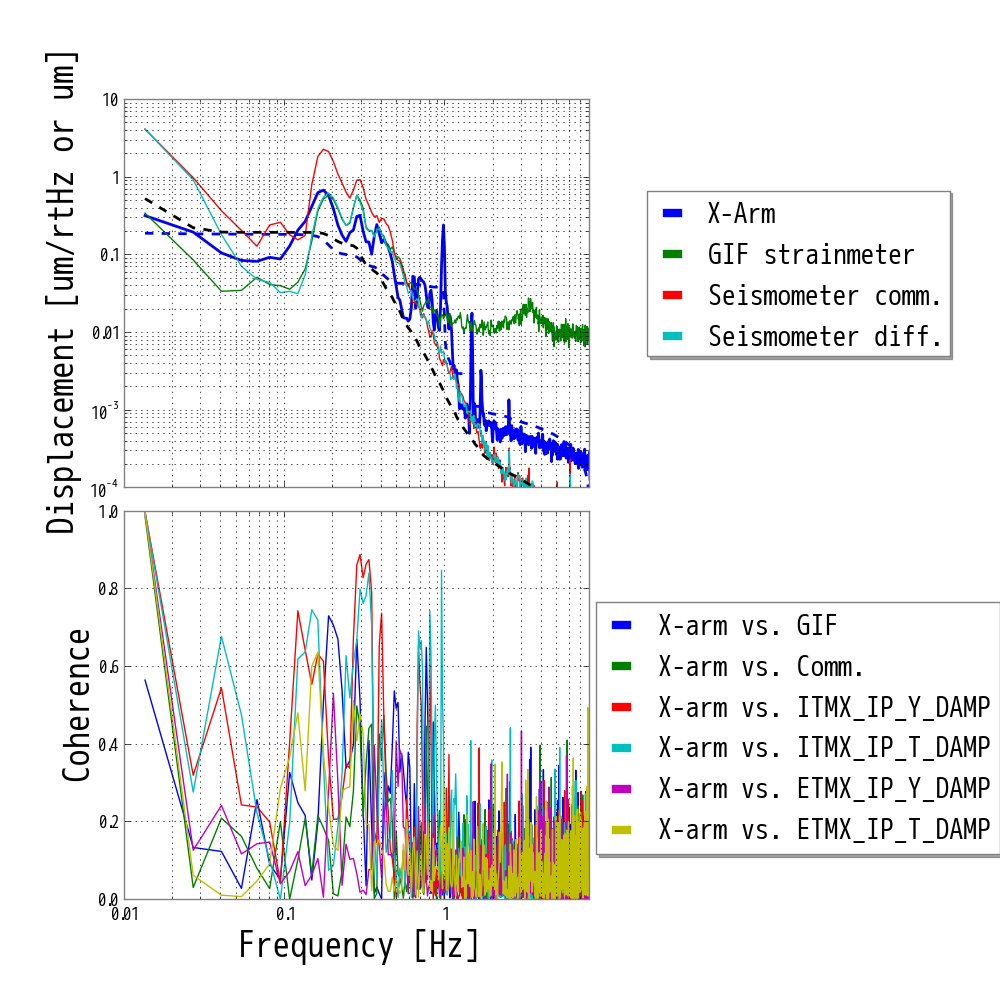
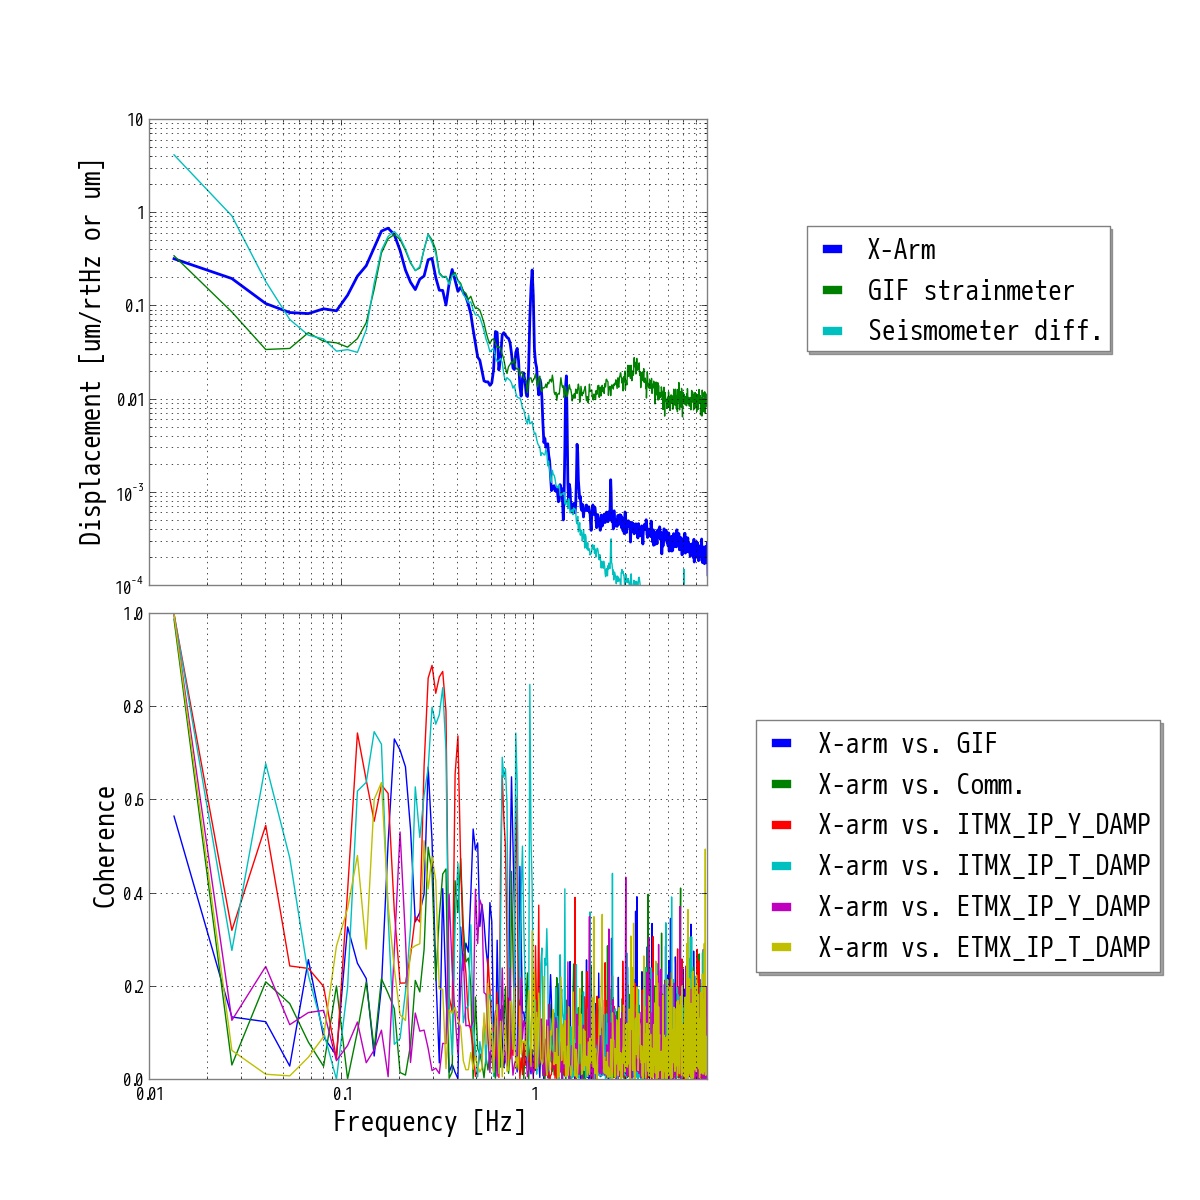
Update

diff --git a/alcs/sensor_correction_trial/main.py b/alcs/sensor_correction_trial/main.py
@@ -190,22 +190,22 @@ plt.close()
 
 
 # plot
-fig, (ax1,ax2) = plt.subplots(2,1,figsize=(10,10),sharex=True)
+fig, (ax1,ax2) = plt.subplots(2,1,figsize=(12,12),sharex=True)
 plt.subplots_adjust(hspace=0.06)
 #ax1.set_title(hoge,fontsize=40)
 ax1.loglog(xarm,label='X-Arm',color='b',linewidth=2)
-ax1.loglog(xarm.rms(),color='b',linewidth=2,linestyle='--')
+#ax1.loglog(xarm.rms(),color='b',linewidth=2,linestyle='--')
 ax1.loglog(gif,label='GIF strainmeter',color='g')
-ax1.loglog(comm_seis,label='Seismometer comm.',color='r',linestyle='-',linewidth=1)
+#ax1.loglog(comm_seis,label='Seismometer comm.',color='r',linestyle='-',linewidth=1)
 ax1.loglog(diff_seis,label='Seismometer diff.',color='c',linestyle='-',linewidth=1)
-ax1.loglog(diff_seis.rms(),color='k',linestyle='--',linewidth=2)
-ax1.set_ylabel('Displacement [um/rtHz or um]',fontsize=25)
+#ax1.loglog(diff_seis.rms(),color='k',linestyle='--',linewidth=2)
+ax1.set_ylabel('Displacement [um/rtHz or um]',fontsize=20)
 chartBox = ax1.get_position()
 ax1.set_position([chartBox.x0, chartBox.y0, chartBox.width*0.6, chartBox.height])
 ax1.legend(loc='upper center', bbox_to_anchor=(1.45, 0.8), shadow=True, ncol=1,fontsize=20)
 #ax1.legend(fontsize=20,loc='lower left')
 ax1.set_ylim(1e-4,10)
-ax2.set_ylabel('Coherence',fontsize=25)
+ax2.set_ylabel('Coherence',fontsize=20)
 ax2.semilogx(coh_gif2xarm,label='X-arm vs. GIF',linewidth=1)
 ax2.semilogx(coh_xarm2seiscomm,label='X-arm vs. Comm.',linewidth=1,linestyle='-')
 #ax2.semilogx(coh_gif2seis,label='Diff. vs. GIF',color='k',linewidth=1)
@@ -217,7 +217,7 @@ chartBox = ax2.get_position()
 ax2.set_position([chartBox.x0, chartBox.y0, chartBox.width*0.6, chartBox.height])
 ax2.legend(loc='upper center', bbox_to_anchor=(1.45, 0.8), shadow=True, ncol=1,fontsize=20)
 #ax2.legend(fontsize=20,loc='upper right',alpha=0.4)
-ax2.set_xlabel('Frequency [Hz]',fontsize=25)
+ax2.set_xlabel('Frequency [Hz]',fontsize=20)
 ax2.set_ylim(0,1)
 ax2.set_xlim(1e-2,8)
 plt.savefig('./{0}/{1}_commseis.png'.format(hoge.split('_')[0],hoge))
